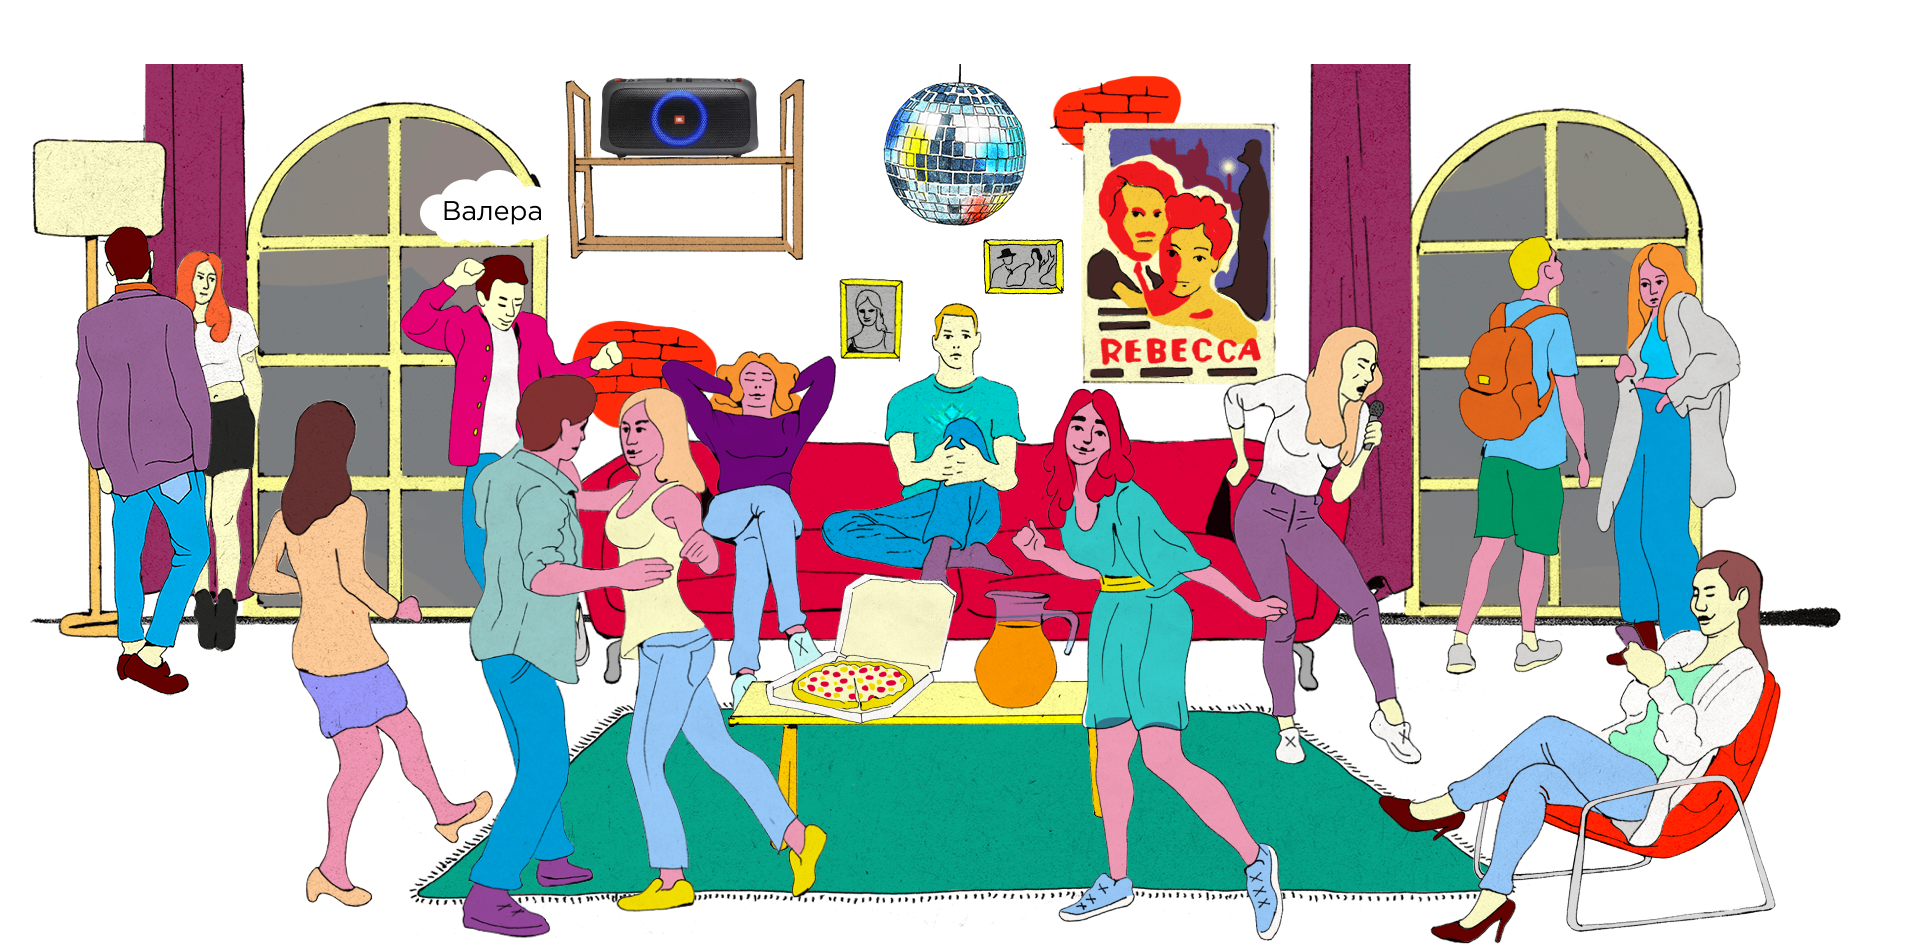
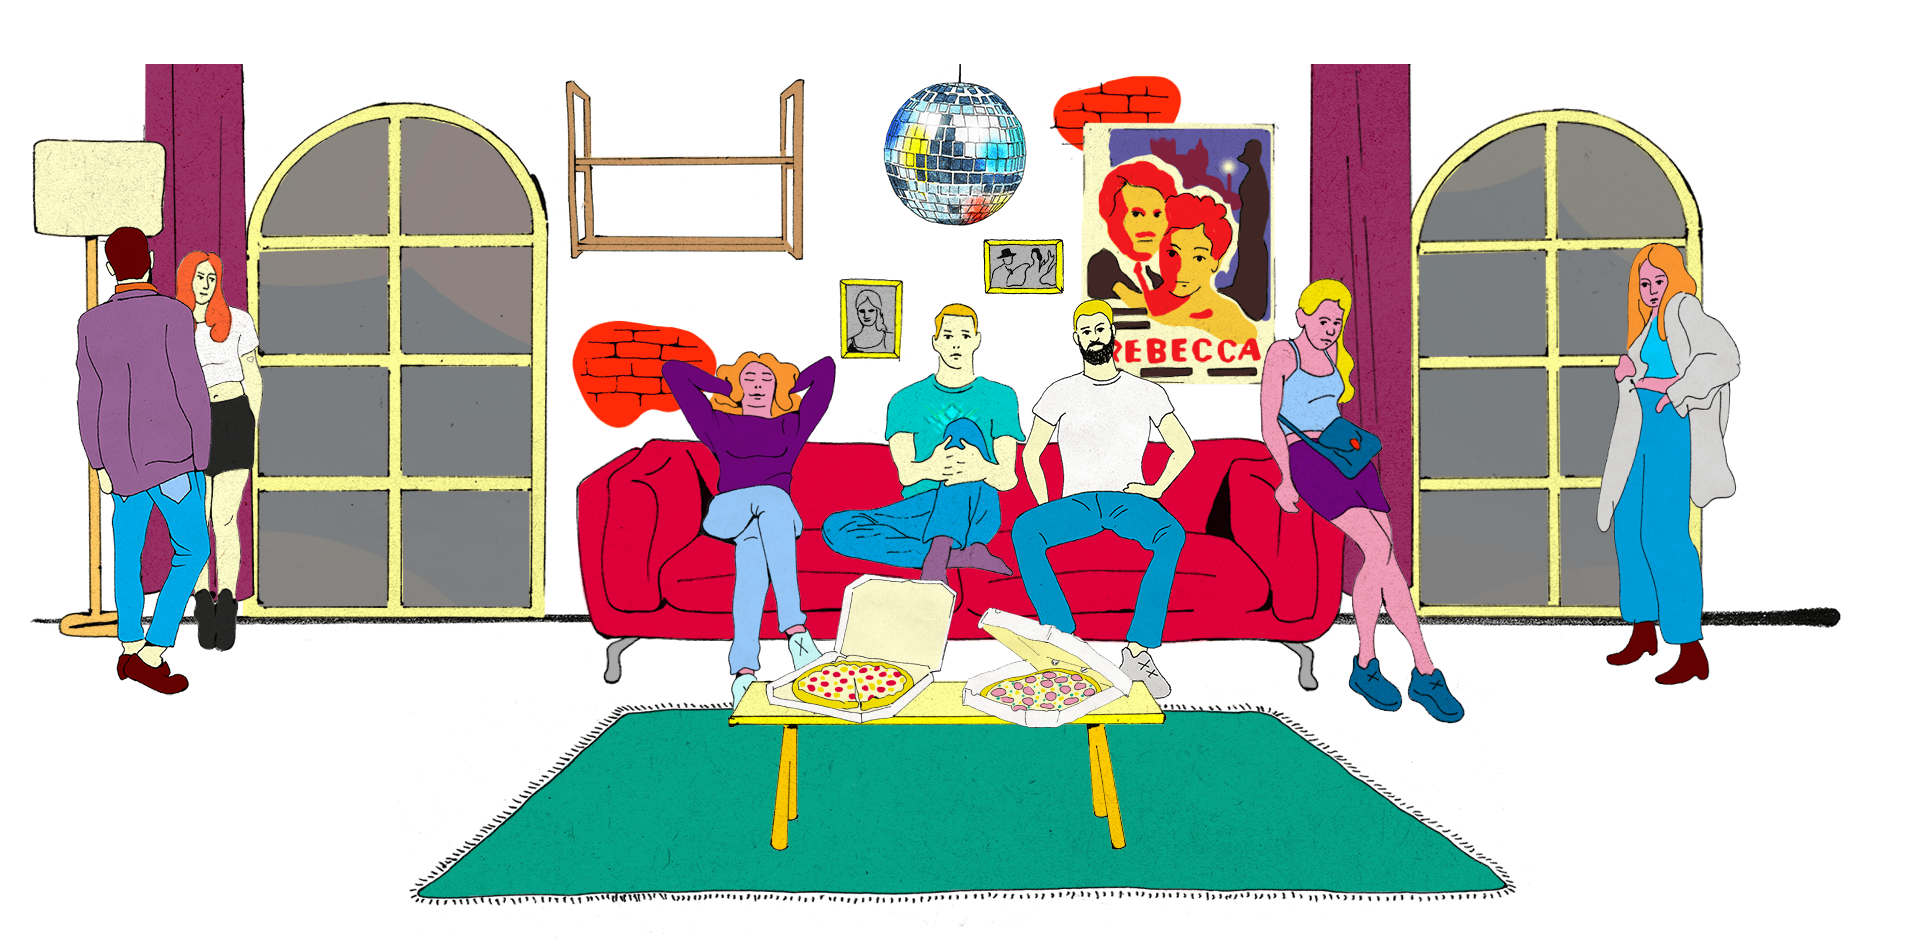
Added level 5

Changed region(s): [[0.5, 0.2445, 0.9375, 1.0], [0.125, 0.1834, 0.4375, 1.0], [0.3125, 0.0611, 0.4062, 0.1834]]

diff --git a/src/components/Game/levelsData.js b/src/components/Game/levelsData.js
@@ -35,9 +35,9 @@ const levels = [
         ]
     },
     {
-        bgImg: 23,
-        corect: 36,
-        nocorect: 24,
+        bgImg: 20,
+        corect: 21,
+        nocorect: 22,
         animatePlus: [
             {id: 28, style: {left: '30.5em', top: '18.4em', width: '22.9em', height: '42.1em'}},//Парень в розовой рубашке
             {id: 29, style: {left: '143.2em', top: '16.8em', width: '14.6em', height: '43.8em'}},//Парень с рюкзаком
@@ -57,14 +57,48 @@ const levels = [
         ]
     },
     {
-        bgImg: 20,
-        corect: 21,
-        nocorect: 22,
+        bgImg: 23,
+        corect: 36,
+        nocorect: 24,
+        animatePlus: [
+            {id: 28, style: {left: '39.5em', top: '18.4em', width: '22.9em', height: '42.1em'}},//Парень в розовой рубашке
+            {id: 29, style: {left: '143.2em', top: '16.8em', width: '14.6em', height: '43.8em'}},//Парень с рюкзаком
+            {id: 40, style: {left: '121em', top: '25.6em', width: '20.4em', height: '44.1em'}},//Девушка с микрофоном JBL
+            {id: 32, style: {left: '23.7em', top: '32.7em', width: '26.4em', height: '52.1em'}}, //Девушка спиной
+            {id: 37, style: {left: '45.1em', top: '30em', width: '37.6em', height: '57.4em'}},//Тансующая пара
+            {id: 34, style: {left: '100em', top: '31.9em', width: '27.9em', height: '55.5em'}}, //Девушка в зеленом платье
+            {id: 31, style: {left: '59.2em', top: '11.8em', width: '11.8em', height: '6em'}}, //Колонка
+        ],
+        animateMinus: [
+            {id: 28, style: {left: '39.4em', top: '18.3em', width: '22.9em', height: '42.1em'}},//Парень в розовой рубашке
+            {id: 29, style: {left: '143.2em', top: '16.8em', width: '14.6em', height: '43.8em'}},//Парень с рюкзаком
+            {id: 31, style: {left: '59.2em', top: '11.8em', width: '11.8em', height: '6em'}}, //Колонка
+            {id: 32, style: {left: '23.7em', top: '32.7em', width: '26.4em', height: '52.1em'}}, //Девушка спиной
+            {id: 41, style: {left: '122.8em', top: '20.3em', width: '20.4em', height: '62.5em'}}, //Парень с поднятой рукой
+            {id: 35, style: {left: '50.5em', top: '27.6em', width: '31em', height: '60em'}}, //Девушка с микрофоном в розовой
+        ]
     },
     {
-        bgImg: 23,
-        corect: 23,
-        nocorect: 24,
+        bgImg: 25,
+        corect: 26,
+        nocorect: 46,
+        animatePlus: [
+            {id: 28, style: {left: '39.5em', top: '18.4em', width: '22.9em', height: '42.1em'}},//Парень в розовой рубашке
+            {id: 42, style: {left: '83.6em', top: '21.5em', width: '16.6em', height: '43.2em'}},//Девушка в белом коротком платье
+            {id: 29, style: {left: '143.2em', top: '16.8em', width: '14.6em', height: '43.8em'}},//Парень с рюкзаком
+            {id: 43, style: {left: '131.2em', top: '26.6em', width: '19.4em', height: '45.9em'}},//Девушка в коротком голубом платье
+            {id: 32, style: {left: '23.7em', top: '32.7em', width: '26.4em', height: '52.1em'}}, //Девушка спиной
+            {id: 44, style: {left: '43em', top: '31.5em', width: '27.7em', height: '55.5em'}}, //Удевленная девушка не gif
+            {id: 45, style: {left: '71.4em', top: '50.3em', width: '44.9em', height: '28.7em'}}, //Стол не gif
+            {id: 34, style: {left: '103.1em', top: '31.9em', width: '27.9em', height: '55.5em'}}, //Девушка в зеленом платье
+            {id: 31, style: {left: '59.2em', top: '3.5em', width: '11.8em', height: '6em'}}, //Колонка
+        ],
+        animateMinus: [
+            {id: 28, style: {left: '37.1em', top: '18.5em', width: '22.9em', height: '42.1em'}},//Парень в розовой рубашке
+            {id: 29, style: {left: '143.2em', top: '16.8em', width: '14.6em', height: '43.8em'}},//Парень с рюкзаком
+            {id: 31, style: {left: '59.2em', top: '11.8em', width: '11.8em', height: '6em'}}, //Колонка
+            {id: 32, style: {left: '23.7em', top: '32.7em', width: '26.4em', height: '52.1em'}}, //Девушка спиной
+        ]
     },
     {
         bgImg: 25,

diff --git a/src/dataImg.js b/src/dataImg.js
@@ -19,6 +19,7 @@ import gameLocation31 from './img/gameLocation31.png';
 import gameLocation32 from './img/gameLocation32.png';
 import gameLocation4 from './img/gameLocation4.png';
 import gameLocation41 from './img/gameLocation41.png';
+import gameLocation42 from './img/gameLocation42.png';
 import mess1 from './img/mess1.png';
 import mess2 from './img/mess2.png';
 import mess3 from './img/mess3.png';
@@ -38,6 +39,12 @@ import gif8 from './img/gif8.gif';
 import gif9 from './img/gif9.gif';
 import gif10 from './img/gif10.gif';
 import gif11 from './img/gif11.png';
+import gif12 from './img/gif12.gif';
+import gif13 from './img/gif13.gif';
+import gif14 from './img/gif14.gif';
+import gif15 from './img/gif15.gif';
+import gif16 from './img/gif16.png';
+import gif17 from './img/gif17.png';
 
 const dataImages = [
     {
@@ -239,6 +246,41 @@ const dataImages = [
         id: 39,
         name: 'gif11',
         url: gif11
+    },
+    {
+        id: 40,
+        name: 'gif12',
+        url: gif12
+    },
+    {
+        id: 41,
+        name: 'gif13',
+        url: gif13
+    },
+    {
+        id: 42,
+        name: 'gif14',
+        url: gif14
+    },
+    {
+        id: 43,
+        name: 'gif15',
+        url: gif15
+    },
+    {
+        id: 44,
+        name: 'gif16',
+        url: gif16
+    },
+    {
+        id: 45,
+        name: 'gif17',
+        url: gif17
+    },
+    {
+        id: 46,
+        name: 'gameLocation42',
+        url: gameLocation42
     },
 ];
 
